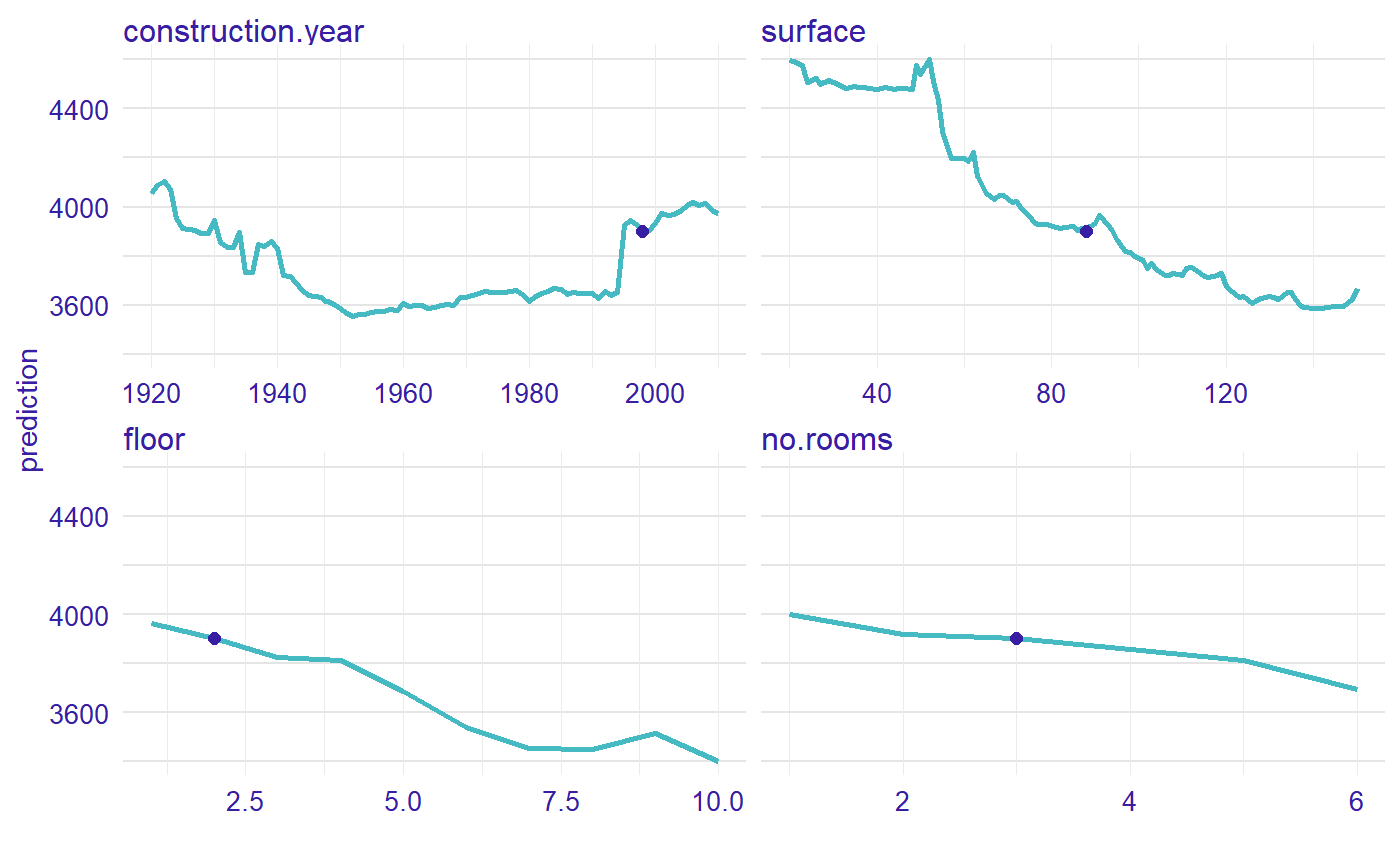
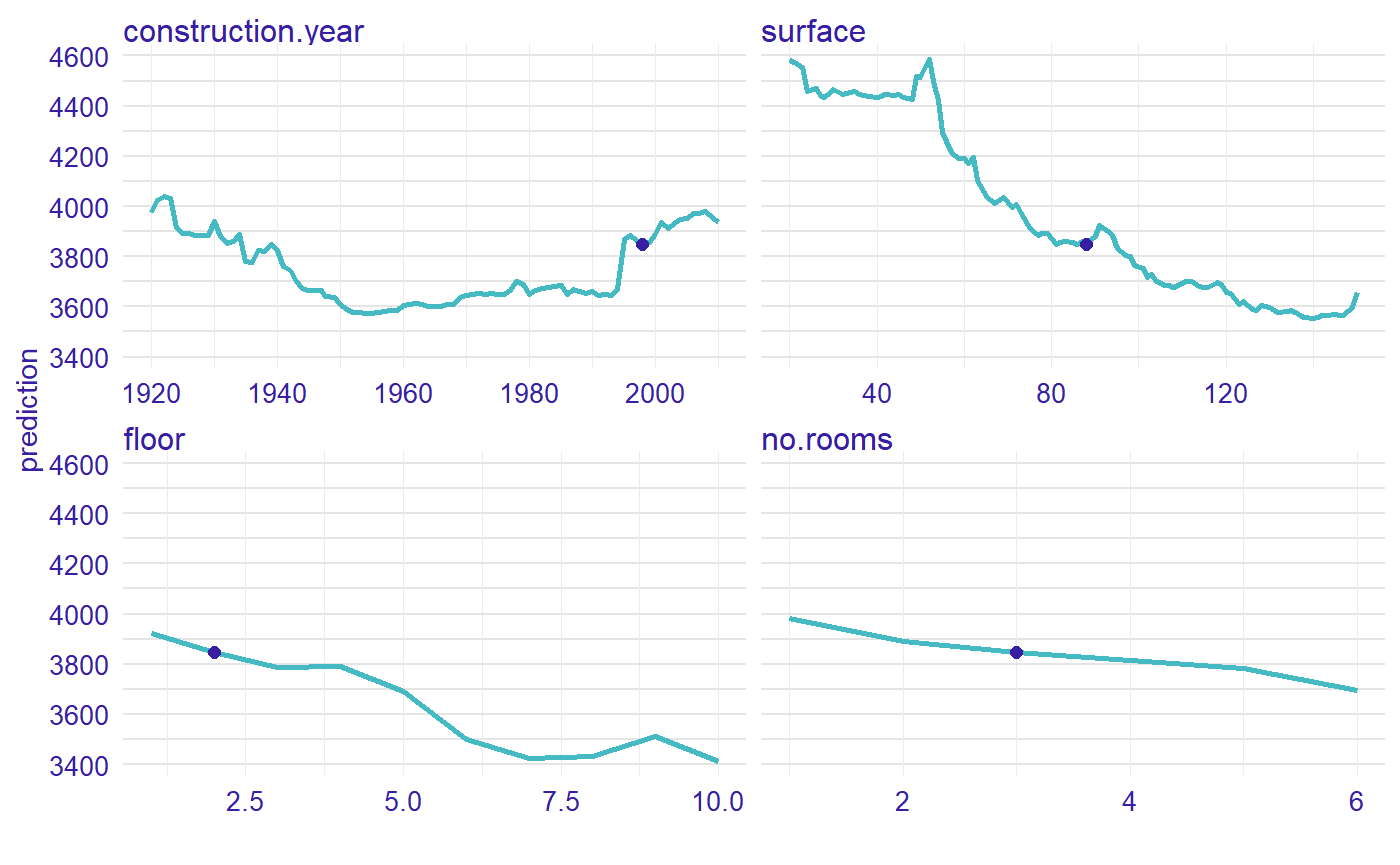
update plot function

diff --git a/docs/articles/vignette_apartments.html b/docs/articles/vignette_apartments.html
@@ -134,9 +134,9 @@
 <a class="sourceLine" id="cb2-9" title="9"><span class="co">#&gt;   -&gt; target variable   :  9000  values </span></a>
 <a class="sourceLine" id="cb2-10" title="10"><span class="co">#&gt;   -&gt; model_info        :  package randomForest , ver. 4.6.14 , task regression ( [33m default [39m ) </span></a>
 <a class="sourceLine" id="cb2-11" title="11"><span class="co">#&gt;   -&gt; predict function  :  yhat.randomForest  will be used ( [33m default [39m )</span></a>
-<a class="sourceLine" id="cb2-12" title="12"><span class="co">#&gt;   -&gt; predicted values  :  numerical, min =  2125.223 , mean =  3517.441 , max =  5361.727  </span></a>
+<a class="sourceLine" id="cb2-12" title="12"><span class="co">#&gt;   -&gt; predicted values  :  numerical, min =  2114.18 , mean =  3514.627 , max =  5329.71  </span></a>
 <a class="sourceLine" id="cb2-13" title="13"><span class="co">#&gt;   -&gt; residual function :  difference between y and yhat ( [33m default [39m )</span></a>
-<a class="sourceLine" id="cb2-14" title="14"><span class="co">#&gt;   -&gt; residuals         :  numerical, min =  -1281.673 , mean =  -5.917059 , max =  2144.836  </span></a>
+<a class="sourceLine" id="cb2-14" title="14"><span class="co">#&gt;   -&gt; residuals         :  numerical, min =  -1265.387 , mean =  -3.102995 , max =  2185.85  </span></a>
 <a class="sourceLine" id="cb2-15" title="15"><span class="co">#&gt;  [32m A new explainer has been created! [39m</span></a></code></pre></div>
 </div>
 <div id="new-observation" class="section level3">
@@ -146,7 +146,7 @@
 <div class="sourceCode" id="cb3"><pre class="sourceCode r"><code class="sourceCode r"><a class="sourceLine" id="cb3-1" title="1">new_apartment &lt;-<span class="st"> </span><span class="kw"><a href="https://rdrr.io/r/base/data.frame.html">data.frame</a></span>(<span class="dt">construction.year =</span> <span class="dv">1998</span>, <span class="dt">surface =</span> <span class="dv">88</span>, <span class="dt">floor =</span> 2L, <span class="dt">no.rooms =</span> <span class="dv">3</span>)</a>
 <a class="sourceLine" id="cb3-2" title="2"><span class="kw"><a href="https://rdrr.io/r/stats/predict.html">predict</a></span>(apartments_rf_model, new_apartment)</a>
 <a class="sourceLine" id="cb3-3" title="3"><span class="co">#&gt;        1 </span></a>
-<a class="sourceLine" id="cb3-4" title="4"><span class="co">#&gt; 3901.177</span></a></code></pre></div>
+<a class="sourceLine" id="cb3-4" title="4"><span class="co">#&gt; 3848.056</span></a></code></pre></div>
 </div>
 <div id="calculate-ceteris-paribus-profiles" class="section level3">
 <h3 class="hasAnchor">

diff --git a/docs/reference/plot.local_importance.html b/docs/reference/plot.local_importance.html
@@ -154,6 +154,10 @@
       <th>...</th>
       <td><p>other parameters</p></td>
     </tr>
+    <tr>
+      <th>title</th>
+      <td><p>the plot's title, by default <code>'Local variable importance'</code></p></td>
+    </tr>
     </table>
 
     <h2 class="hasAnchor" id="value"><a class="anchor" href="#value"></a>Value</h2>
